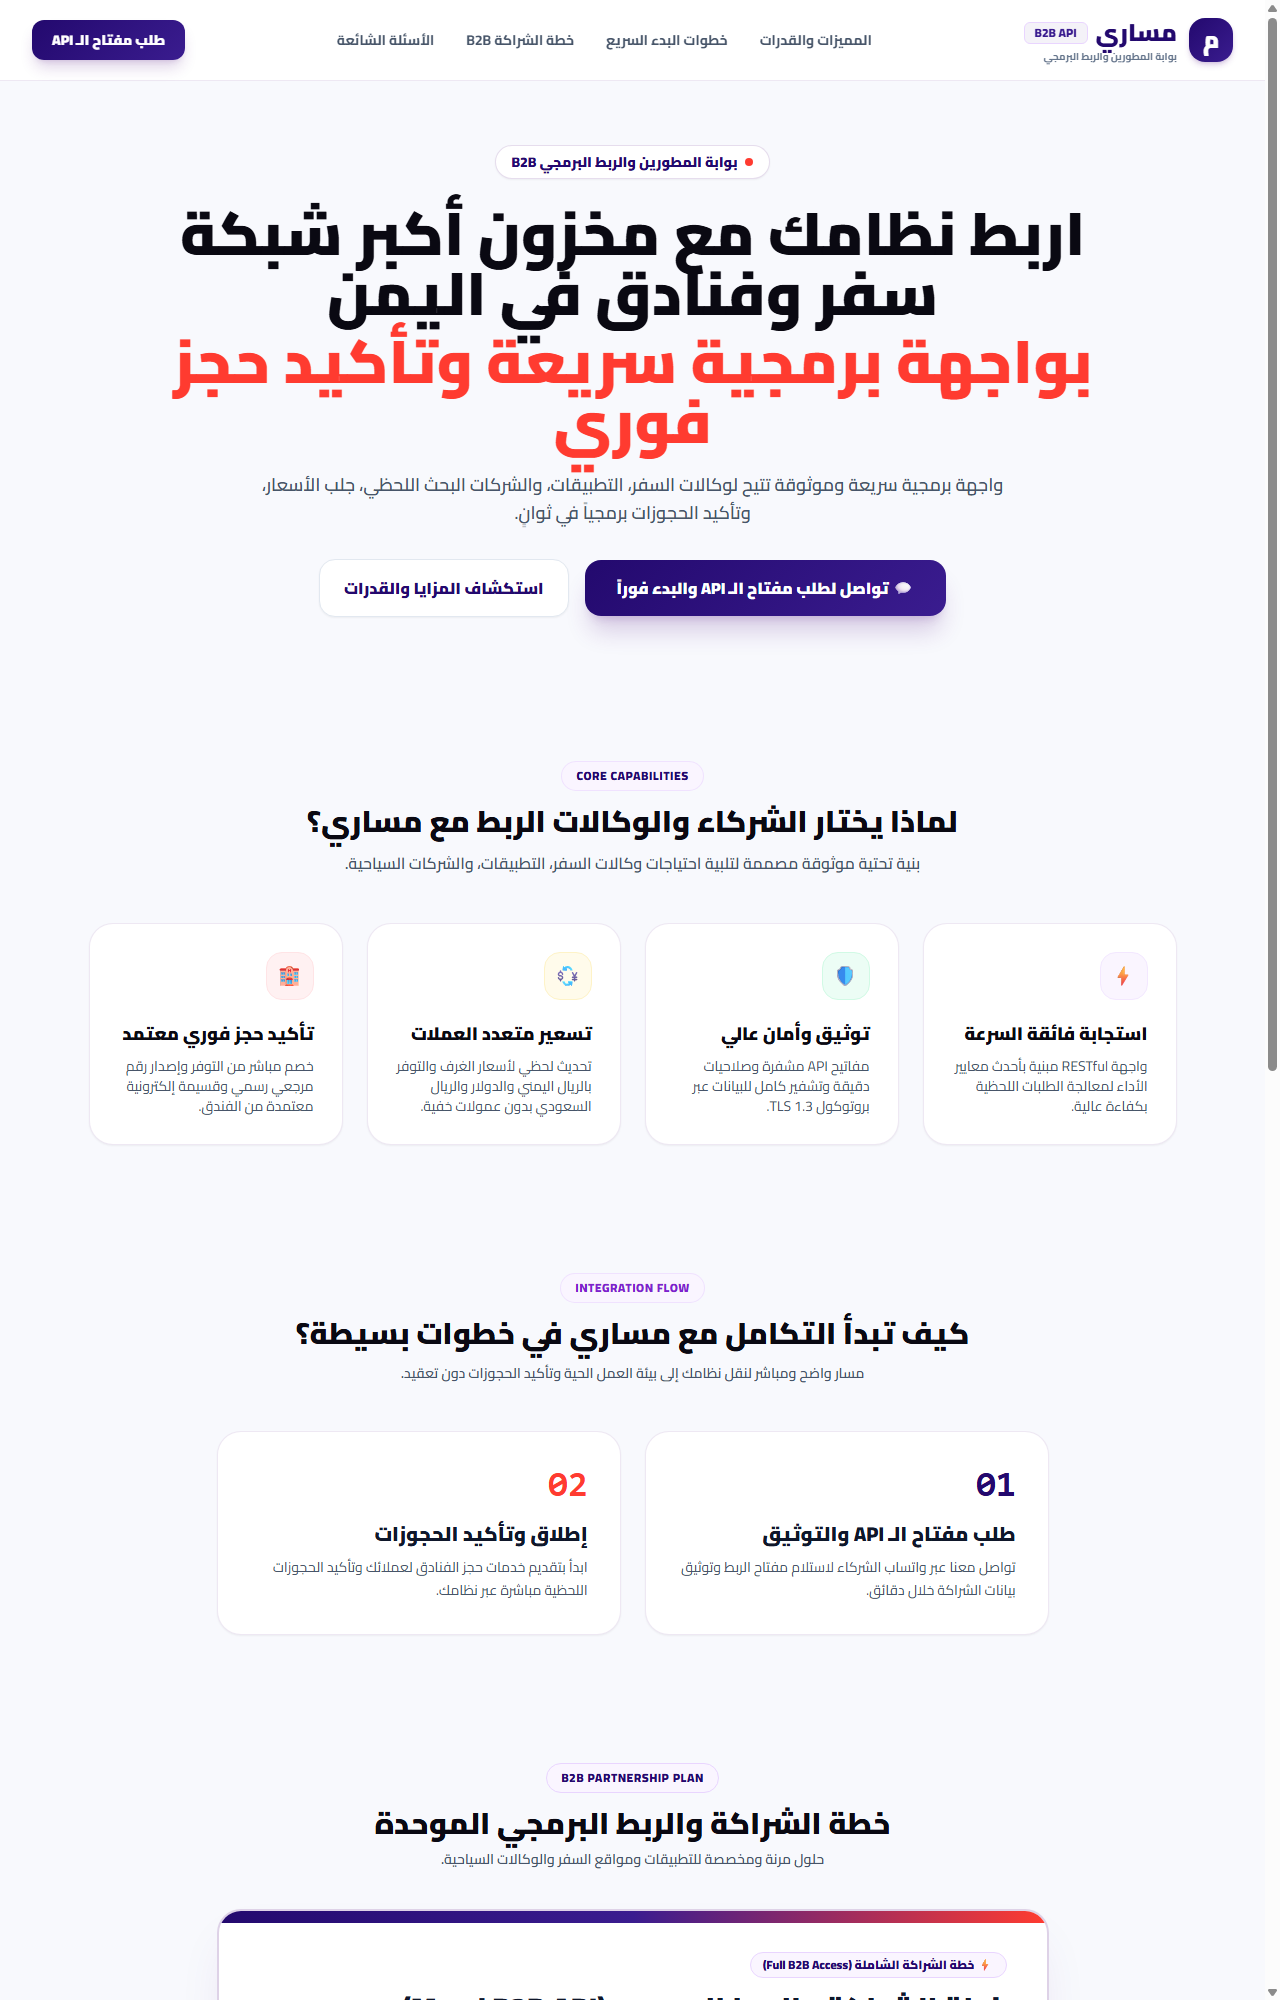
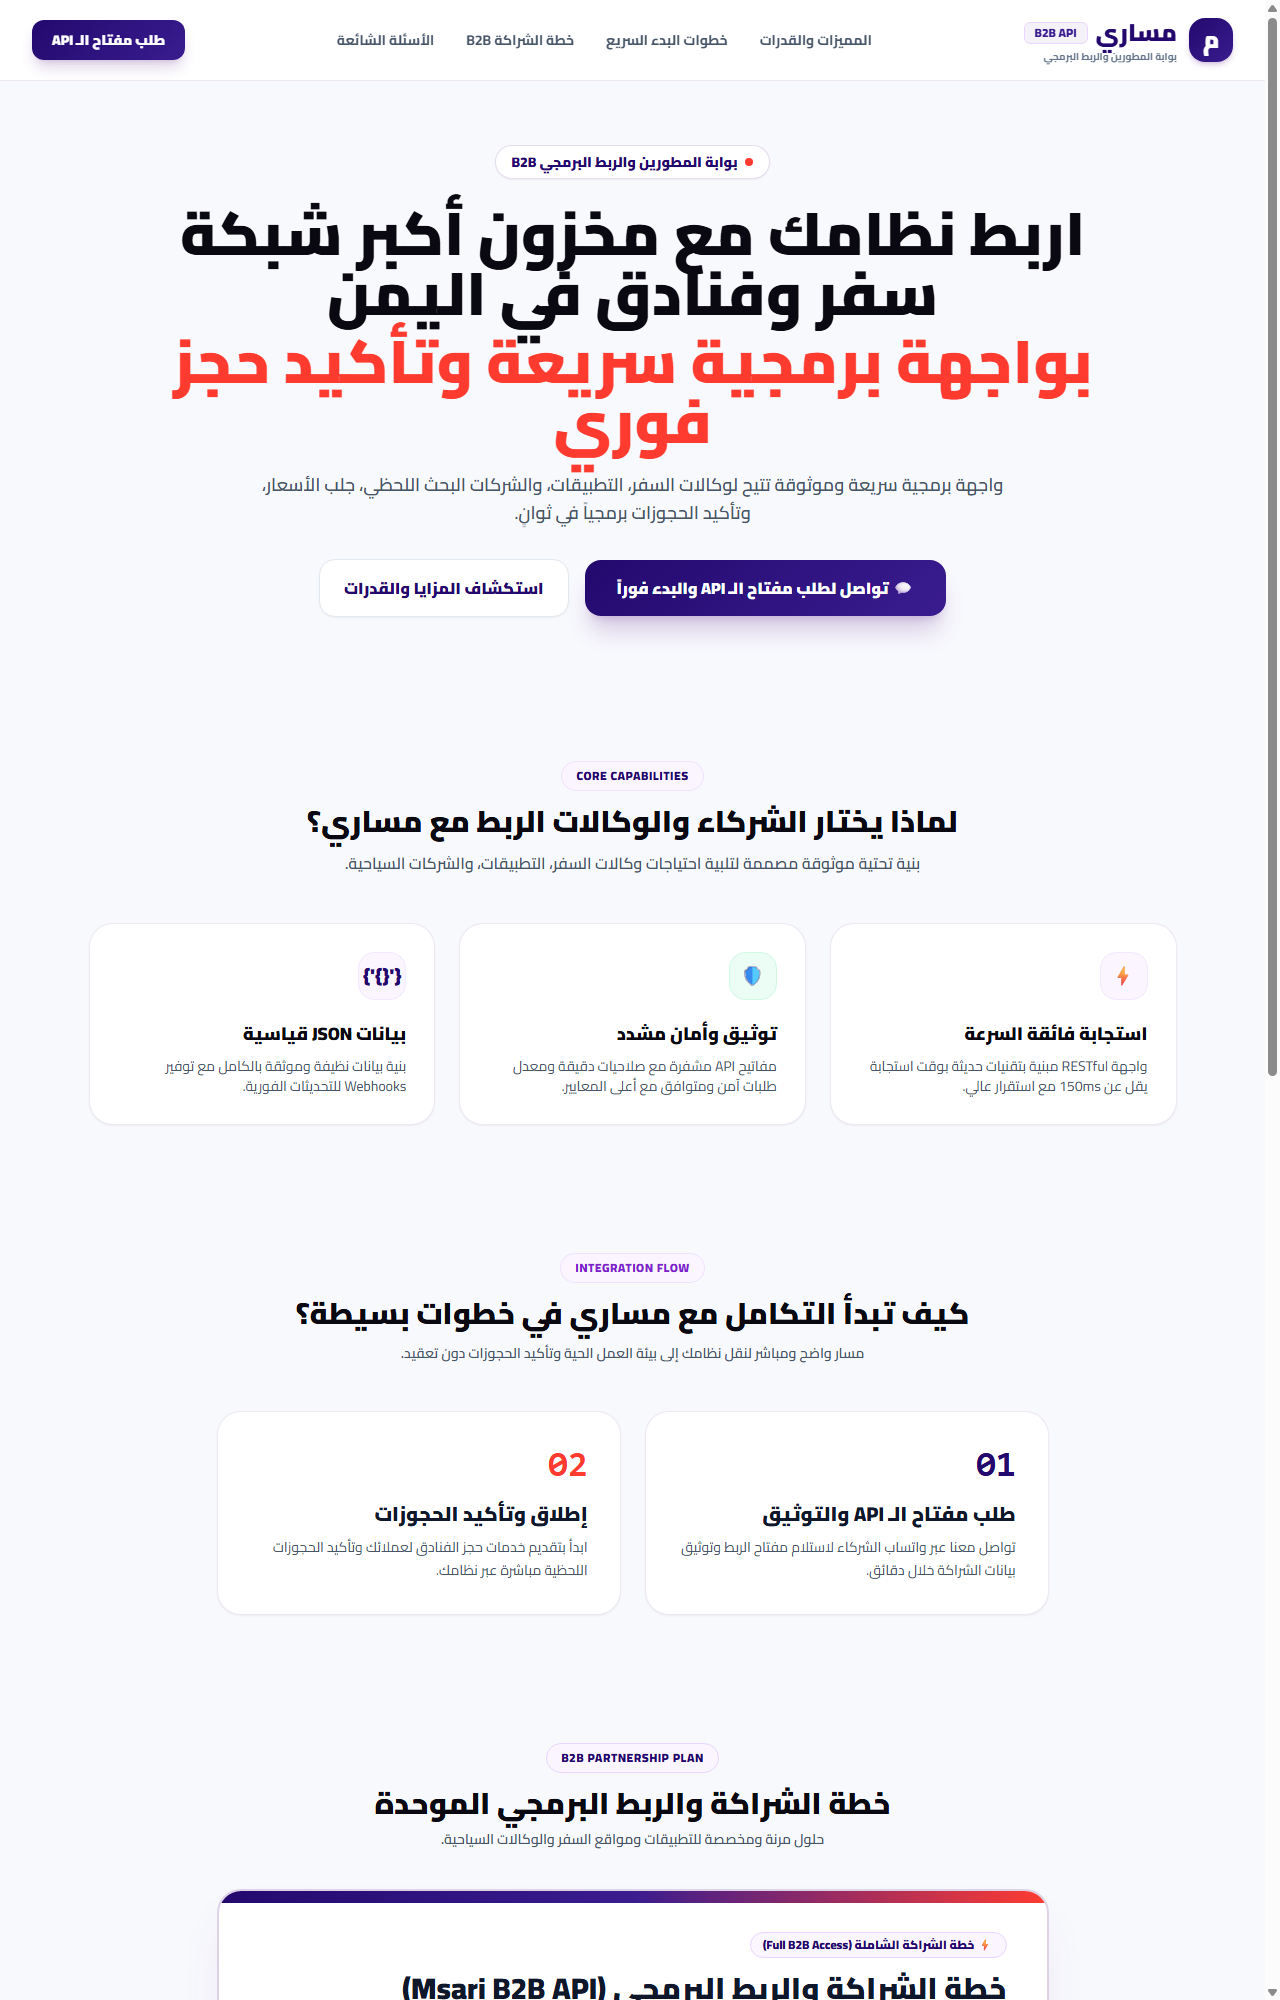
fix(developers): make capabilities grid dynamically balance 3 cards across desktop width with zero empty gaps

diff --git a/public/preview-api-portal.html b/public/preview-api-portal.html
@@ -104,36 +104,28 @@
         </p>
       </div>
 
-      <div class="grid grid-cols-1 md:grid-cols-2 lg:grid-cols-4 gap-6">
+      <div class="grid grid-cols-1 md:grid-cols-3 gap-6 max-w-6xl mx-auto">
         <div class="bg-white p-6 sm:p-7 rounded-3xl border border-purple-900/10 shadow-sm hover:shadow-xl hover:-translate-y-1 transition-all duration-300">
           <div class="w-12 h-12 rounded-2xl bg-purple-50 border border-purple-100 text-[#23096E] flex items-center justify-center mb-5 font-black text-xl">⚡</div>
           <h3 class="text-lg font-black text-[#0A0912] mb-2">استجابة فائقة السرعة</h3>
           <p class="text-slate-600 text-xs sm:text-sm font-medium leading-relaxed">
-            واجهة RESTful مبنية بأحدث معايير الأداء لمعالجة الطلبات اللحظية بكفاءة عالية.
+            واجهة RESTful مبنية بتقنيات حديثة بوقت استجابة يقل عن 150ms مع استقرار عالي.
           </p>
         </div>
 
         <div class="bg-white p-6 sm:p-7 rounded-3xl border border-purple-900/10 shadow-sm hover:shadow-xl hover:-translate-y-1 transition-all duration-300">
           <div class="w-12 h-12 rounded-2xl bg-emerald-50 border border-emerald-100 text-emerald-600 flex items-center justify-center mb-5 font-black text-xl">🛡</div>
-          <h3 class="text-lg font-black text-[#0A0912] mb-2">توثيق وأمان عالي</h3>
+          <h3 class="text-lg font-black text-[#0A0912] mb-2">توثيق وأمان مشدد</h3>
           <p class="text-slate-600 text-xs sm:text-sm font-medium leading-relaxed">
-            مفاتيح API مشفرة وصلاحيات دقيقة وتشفير كامل للبيانات عبر بروتوكول TLS 1.3.
+            مفاتيح API مشفرة مع صلاحيات دقيقة ومعدل طلبات آمن ومتوافق مع أعلى المعايير.
           </p>
         </div>
 
         <div class="bg-white p-6 sm:p-7 rounded-3xl border border-purple-900/10 shadow-sm hover:shadow-xl hover:-translate-y-1 transition-all duration-300">
-          <div class="w-12 h-12 rounded-2xl bg-amber-50 border border-amber-100 text-amber-600 flex items-center justify-center mb-5 font-black text-xl">💱</div>
-          <h3 class="text-lg font-black text-[#0A0912] mb-2">تسعير متعدد العملات</h3>
+          <div class="w-12 h-12 rounded-2xl bg-purple-50 border border-purple-100 text-[#23096E] flex items-center justify-center mb-5 font-black text-xl">{'{}'}</div>
+          <h3 class="text-lg font-black text-[#0A0912] mb-2">بيانات JSON قياسية</h3>
           <p class="text-slate-600 text-xs sm:text-sm font-medium leading-relaxed">
-            تحديث لحظي لأسعار الغرف والتوفر بالريال اليمني والدولار والريال السعودي بدون عمولات خفية.
-          </p>
-        </div>
-
-        <div class="bg-white p-6 sm:p-7 rounded-3xl border border-purple-900/10 shadow-sm hover:shadow-xl hover:-translate-y-1 transition-all duration-300">
-          <div class="w-12 h-12 rounded-2xl bg-rose-50 border border-rose-100 text-rose-600 flex items-center justify-center mb-5 font-black text-xl">🏨</div>
-          <h3 class="text-lg font-black text-[#0A0912] mb-2">تأكيد حجز فوري معتمد</h3>
-          <p class="text-slate-600 text-xs sm:text-sm font-medium leading-relaxed">
-            خصم مباشر من التوفر وإصدار رقم مرجعي رسمي وقسيمة إلكترونية معتمدة من الفندق.
+            بنية بيانات نظيفة وموثقة بالكامل مع توفير Webhooks للتحديثات الفورية.
           </p>
         </div>
       </div>

diff --git a/scripts/migrate-cms-content.ts b/scripts/migrate-cms-content.ts
@@ -368,10 +368,9 @@ async function runMigration() {
         subtitle: 'نوفر واجهة مساري البرمجية (API) للتطبيقات، مواقع السفر، الوكالات، والشركات لاستعراض وحجز الفنادق والخدمات السياحية بسلاسة تامة.',
       },
       features: [
-        { icon: 'Zap', title: 'استجابة فائقة السرعة', desc: 'واجهة RESTful مبنية بأحدث معايير الأداء لمعالجة الطلبات اللحظية بكفاءة عالية.' },
-        { icon: 'ShieldCheck', title: 'توثيق وأمان عالي', desc: 'مفاتيح API مشفرة مع صلاحيات دقيقة وتشفير كامل للبيانات عبر بروتوكول TLS 1.3.' },
-        { icon: 'Coins', title: 'تسعير متعدد العملات', desc: 'تحديث لحظي لأسعار الغرف والتوفر بالريال اليمني والدولار والريال السعودي بدون عمولات خفية.' },
-        { icon: 'Cpu', title: 'تأكيد حجز فوري معتمد', desc: 'خصم مباشر من التوفر وإصدار رقم مرجعي رسمي وقسيمة إلكترونية معتمدة من الفندق.' },
+        { icon: 'Zap', title: 'استجابة فائقة السرعة', desc: 'واجهة RESTful مبنية بتقنيات حديثة بوقت استجابة يقل عن 150ms مع استقرار عالي.' },
+        { icon: 'ShieldCheck', title: 'توثيق وأمان مشدد', desc: 'مفاتيح API مشفرة مع صلاحيات دقيقة ومعدل طلبات آمن ومتوافق مع أعلى المعايير.' },
+        { icon: 'Code', title: 'بيانات JSON قياسية', desc: 'بنية بيانات نظيفة وموثقة بالكامل مع توفير Webhooks للتحديثات الفورية.' },
       ],
       plans: [
         {

diff --git a/src/services/cms/pages.cms.ts b/src/services/cms/pages.cms.ts
@@ -130,10 +130,9 @@ export const FALLBACK_DEVELOPERS: DevelopersPageData = {
     subtitle: 'واجهة برمجية سريعة وموثوقة تتيح لك البحث عن الفنادق، جلب الأسعار اللحظية، وتأكيد الحجوزات برمجياً.',
   },
   features: [
-    { icon: 'Zap', title: 'استجابة فائقة السرعة', desc: 'واجهة RESTful مبنية بأحدث معايير الأداء لمعالجة الطلبات اللحظية بكفاءة عالية.' },
-    { icon: 'ShieldCheck', title: 'توثيق وأمان عالي', desc: 'مفاتيح API مشفرة مع صلاحيات دقيقة وتشفير كامل للبيانات عبر بروتوكول TLS 1.3.' },
-    { icon: 'Coins', title: 'تسعير متعدد العملات', desc: 'تحديث لحظي لأسعار الغرف والتوفر بالريال اليمني والدولار والريال السعودي بدون عمولات خفية.' },
-    { icon: 'Cpu', title: 'تأكيد حجز فوري معتمد', desc: 'خصم مباشر من التوفر وإصدار رقم مرجعي رسمي وقسيمة إلكترونية معتمدة من الفندق.' },
+    { icon: 'Zap', title: 'استجابة فائقة السرعة', desc: 'واجهة RESTful مبنية بتقنيات حديثة بوقت استجابة يقل عن 150ms مع استقرار عالي.' },
+    { icon: 'ShieldCheck', title: 'توثيق وأمان مشدد', desc: 'مفاتيح API مشفرة مع صلاحيات دقيقة ومعدل طلبات آمن ومتوافق مع أعلى المعايير.' },
+    { icon: 'Code', title: 'بيانات JSON قياسية', desc: 'بنية بيانات نظيفة وموثقة بالكامل مع توفير Webhooks للتحديثات الفورية.' },
   ],
   plans: [
     {

diff --git a/src/app/[locale]/developers/DevelopersClient.tsx b/src/app/[locale]/developers/DevelopersClient.tsx
@@ -15,6 +15,8 @@ import {
   ChevronDown,
   Layers,
   Code2,
+  Code,
+  CheckCircle2,
   Lock,
 } from 'lucide-react';
 import Link from 'next/link';
@@ -35,6 +37,8 @@ const ICON_MAP: Record<string, any> = {
   Globe2,
   Layers,
   Code2,
+  Code,
+  CheckCircle2,
   Lock,
 };
 
@@ -240,7 +244,17 @@ export default function DevelopersClient({ data, whatsappNumber }: DevelopersCli
             </p>
           </div>
 
-          <div className="grid grid-cols-1 md:grid-cols-2 lg:grid-cols-4 gap-6">
+          <div
+            className={`grid gap-6 ${
+              features.length === 1
+                ? 'grid-cols-1 max-w-xl mx-auto'
+                : features.length === 2
+                ? 'grid-cols-1 md:grid-cols-2 max-w-4xl mx-auto'
+                : features.length === 3
+                ? 'grid-cols-1 md:grid-cols-3 max-w-6xl mx-auto'
+                : 'grid-cols-1 md:grid-cols-2 lg:grid-cols-4'
+            }`}
+          >
             {features.map((feat, idx) => {
               const Icon = ICON_MAP[feat.icon] || Zap;
               return (
